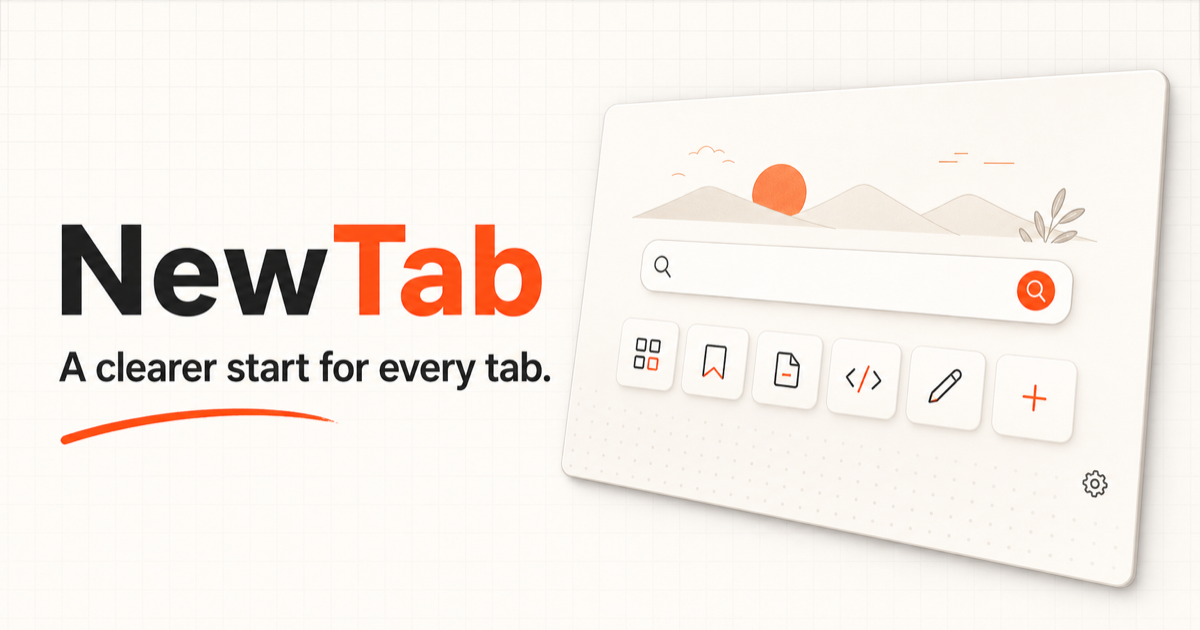
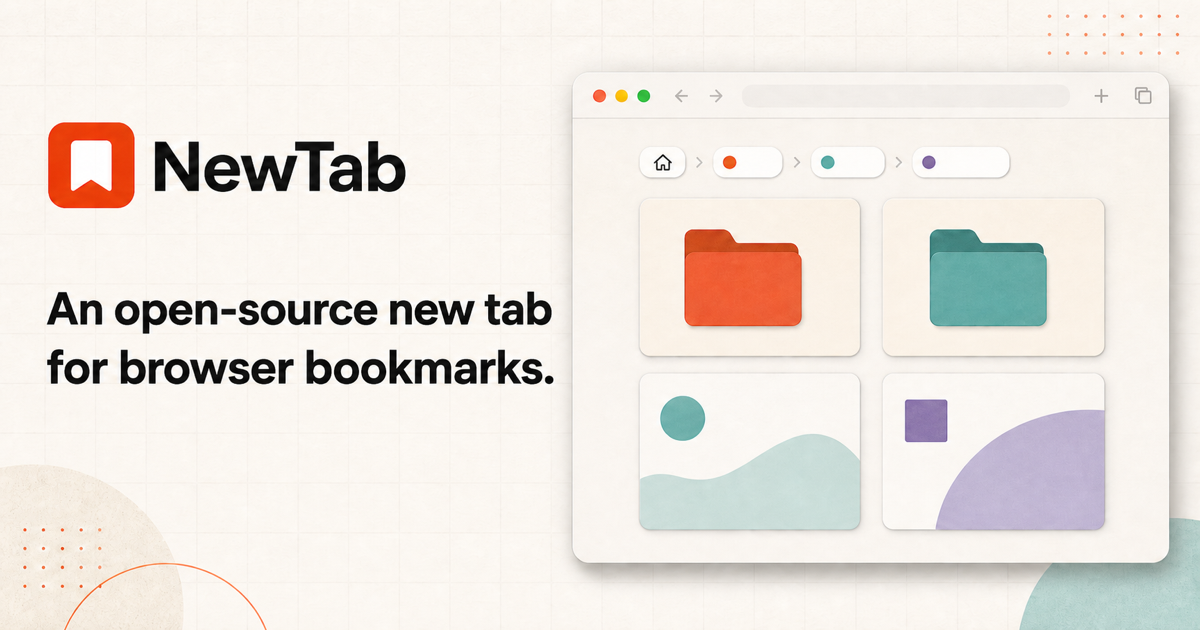
feat(site): update website for browser bookmarks

diff --git a/apps/site/src/i18n/translations.ts b/apps/site/src/i18n/translations.ts
@@ -7,9 +7,9 @@ export type Locale = "en" | "zh";
 export const translations = {
   en: {
     lang: "en",
-    title: `${PRODUCT_NAME} — Customizable New Tab Extension for Chrome`,
-    description: `${PRODUCT_NAME} is a free, ad-free, open-source new tab extension with customizable shortcuts and smarter search. No sign-in—your preferences stay in your browser.`,
-    shareImageAlt: `${PRODUCT_NAME}, a clear and customizable new tab extension`,
+    title: `${PRODUCT_NAME} — An Open-Source New Tab for Browser Bookmarks`,
+    description: `${PRODUCT_NAME} is an open-source browser extension for viewing, searching, and organizing browser bookmarks from the new-tab page.`,
+    shareImageAlt: `${PRODUCT_NAME}, a visual new tab for your browser bookmarks`,
     homeLabel: `${PRODUCT_NAME} home`,
     navLabel: "Main navigation",
     nav: {
@@ -21,47 +21,47 @@ export const translations = {
     },
     hero: {
       badge: "FREE · AD-FREE · OPEN SOURCE",
-      line1: "Open a new tab.",
-      line2: "Start with clarity.",
-      description: `${PRODUCT_NAME} is a simple, customizable new tab extension. Keep favorite sites close, search without detours, and shape the page around the way you work.`,
-      try: "Try the live demo",
+      line1: "Manage browser bookmarks",
+      line2: "from the new-tab page.",
+      description: `${PRODUCT_NAME} reads the browser’s bookmark tree. You can browse folders, search bookmarks, and organize them directly from the new-tab page.`,
+      try: "Open demo",
       browserCta: {
         chrome: "Add to Chrome",
         edge: "Get from Edge Add-ons",
         choose: "Choose your browser",
         pending: "The extension is coming soon. Stay tuned!",
       },
-      benefits: ["No sign-in", "Local-first", "Open source"],
+      benefits: ["Browser bookmarks", "Nested folders", "Drag and drop"],
     },
     demo: {
-      label: "LIVE DEMO",
+      label: "DEMO",
       iframeTitle: `Interactive ${PRODUCT_NAME} product demo`,
       tabTitle: "New Tab",
     },
     features: {
-      label: `WHY ${PRODUCT_NAME.toUpperCase()}`,
-      title1: "Less distraction.",
-      title2: "More direction.",
-      description: `Every new tab is a small chance to begin again. ${PRODUCT_NAME} keeps search, shortcuts, and personal preferences clear and close at hand without getting in your way.`,
+      label: "BOOKMARK MANAGEMENT",
+      title1: "View and edit",
+      title2: "browser bookmarks.",
+      description: `${PRODUCT_NAME} displays the browser bookmark tree as folders and cards. Changes are written directly to the browser’s bookmark store.`,
       link: "Get the extension",
-      spotlight: {
+      search: {
         label: "SMART SEARCH",
         title: "One box. More ways to get there.",
         description:
-          "Start typing to search the web, open a saved shortcut, or switch engines for just this search. Suggestions appear from the first character and stay within keyboard reach.",
+          "Start typing to search the web, open a matching bookmark, or switch engines for just this search. Suggestions appear from the first character and stay within keyboard reach.",
         points: [
-          "Shortcuts and search engines together",
+          "Bookmarks and search engines together",
           "Temporary search-engine switching",
           "Tab and arrow-key navigation",
         ],
         imageAlt:
-          "Search suggestions showing a temporary search engine and saved shortcuts in one list",
+          "Search suggestions showing a temporary search engine and matching bookmarks in one list",
         preview: {
           query: "b",
           engineHost: "bing.com",
           searchAction: "Search with Bing",
-          groupLabel: "Shortcuts",
-          shortcuts: [
+          groupLabel: "Bookmarks",
+          bookmarks: [
             { name: "Bookmarks", host: "bookmarks.local", tone: "orange" },
             { name: "Blog", host: "blog.local", tone: "teal" },
             { name: "Behance", host: "behance.net", tone: "purple" },
@@ -70,41 +70,41 @@ export const translations = {
       },
       items: [
         [
-          "Clear at a glance",
-          "Search and shortcuts that feel instantly familiar, with nothing extra to learn.",
+          "Browser bookmarks",
+          "NewTab reads and edits the bookmark tree provided by the browser.",
         ],
         [
-          "Made for you",
-          "Arrange favorite sites, search engines, and layout preferences around the way you work.",
+          "Folder organization",
+          "Reorder bookmarks, create nested folders, and move items across roots with drag and drop.",
         ],
         [
-          "Naturally lightweight",
-          "No sign-in and no ads. Your shortcuts and preferences stay in your browser.",
+          "Bookmark and web search",
+          "Search bookmarks alongside the web, switch search engines, and use keyboard navigation.",
         ],
       ],
     },
     source: {
       label: "OPEN SOURCE",
-      title1: "Open source.",
-      title2: "Free to adapt.",
-      description: `${PRODUCT_NAME} is completely free and open source. You can inspect the code, suggest improvements, or adapt it to your needs.`,
+      title1: "Source code",
+      title2: "is available on GitHub.",
+      description: `${PRODUCT_NAME} is an open-source project. You can review the code, report issues, suggest changes, or modify it for your own use.`,
       link: "View source code",
     },
     download: {
-      label: "GET THE EXTENSION",
-      title1: "Start your next new tab",
-      title2: `with ${PRODUCT_NAME}.`,
+      label: "INSTALL",
+      title1: `Install ${PRODUCT_NAME}`,
+      title2: "for your browser.",
       description: "Choose your browser and install the extension.",
       storeLabel: "Available for",
     },
-    footerTagline: "Turn every new tab into a better beginning.",
-    footerNote: "Open source with care.",
+    footerTagline: "An open-source new tab for browser bookmarks.",
+    footerNote: "Open-source project.",
   },
   zh: {
     lang: "zh-CN",
-    title: `${PRODUCT_NAME} — 免费开源的自定义新标签页扩展`,
-    description: `${PRODUCT_NAME} 是一款免费、无广告、开源的新标签页扩展，支持自定义快捷方式和更灵活的搜索。无需登录，偏好设置保存在浏览器本地。`,
-    shareImageAlt: `${PRODUCT_NAME}，清晰、可自定义的新标签页扩展`,
+    title: `${PRODUCT_NAME} — 在新标签页管理浏览器书签`,
+    description: `${PRODUCT_NAME} 是一个开源浏览器扩展，用于在新标签页中浏览、搜索和整理浏览器书签。`,
+    shareImageAlt: `${PRODUCT_NAME}，为浏览器书签设计的可视化新标签页`,
     homeLabel: `${PRODUCT_NAME} 主页`,
     navLabel: "主导航",
     nav: {
@@ -116,46 +116,46 @@ export const translations = {
     },
     hero: {
       badge: "免费 · 无广告 · 开源",
-      line1: "打开新标签，",
-      line2: "简单又顺手。",
-      description: `${PRODUCT_NAME} 是一个简单、可自定义的新标签页扩展。常用网站触手可及，搜索一步到位，页面也可以按你的习惯安排。`,
-      try: "先体验一下",
+      line1: "在新标签页中",
+      line2: "管理浏览器书签。",
+      description: `${PRODUCT_NAME} 直接读取浏览器书签树。你可以在新标签页中浏览文件夹、搜索书签并完成整理。`,
+      try: "打开演示",
       browserCta: {
         chrome: "添加到 Chrome",
         edge: "添加到 Edge",
         choose: "选择你的浏览器",
         pending: "插件正在上架中，敬请期待。",
       },
-      benefits: ["无需登录", "数据本地保存", "开放源代码"],
+      benefits: ["浏览器书签", "多层文件夹", "拖拽整理"],
     },
     demo: {
-      label: "在线体验",
+      label: "功能演示",
       iframeTitle: `${PRODUCT_NAME} 可交互产品演示`,
       tabTitle: "新标签页",
     },
     features: {
-      label: `为什么选择 ${PRODUCT_NAME}`,
-      title1: "少一点打扰，",
-      title2: "多一点专注。",
-      description: `每次打开新标签页，都能快速找到需要的内容。${PRODUCT_NAME} 把搜索、快捷入口和个性化设置放在清晰、顺手的位置。`,
+      label: "书签管理",
+      title1: "浏览并编辑",
+      title2: "浏览器书签。",
+      description: `${PRODUCT_NAME} 以文件夹和卡片的形式展示浏览器书签树，修改会直接写入浏览器书签。`,
       link: "获取扩展",
-      spotlight: {
+      search: {
         label: "增强搜索",
         title: "一个搜索框，多种到达方式。",
         description:
-          "从第一个字符开始，搜索框会同时匹配快捷方式和搜索引擎。你可以只为当前搜索临时切换引擎，并用键盘完成选择。",
+          "从第一个字符开始，搜索框会同时匹配浏览器书签和搜索引擎。你可以只为当前搜索临时切换引擎，并用键盘完成选择。",
         points: [
-          "快捷方式与搜索引擎同时匹配",
+          "浏览器书签与搜索引擎同时匹配",
           "仅为当前搜索临时切换引擎",
           "支持 Tab 与上下键导航",
         ],
-        imageAlt: "同一列表中展示临时搜索引擎与快捷方式的搜索建议",
+        imageAlt: "同一列表中展示临时搜索引擎与浏览器书签的搜索建议",
         preview: {
           query: "b",
           engineHost: "bing.com",
           searchAction: "使用 Bing 搜索",
-          groupLabel: "快捷方式",
-          shortcuts: [
+          groupLabel: "浏览器书签",
+          bookmarks: [
             { name: "书签", host: "bookmarks.local", tone: "orange" },
             { name: "博客", host: "blog.local", tone: "teal" },
             { name: "Behance", host: "behance.net", tone: "purple" },
@@ -163,29 +163,29 @@ export const translations = {
         },
       },
       items: [
-        ["一眼就懂", "搜索和快捷入口清晰直观，无需额外学习。"],
-        ["由你定义", "可以按自己的习惯设置常用网站、搜索引擎和页面布局。"],
+        ["浏览器书签", "读取并编辑浏览器提供的书签树。"],
+        ["文件夹整理", "拖拽调整顺序、创建多层文件夹，并跨根目录移动书签。"],
         [
-          "简单直接",
-          "无需登录，没有广告。快捷方式和偏好设置保存在浏览器本地。",
+          "书签与网页搜索",
+          "搜索网页时匹配全部书签，也可以切换搜索引擎并使用键盘操作。",
         ],
       ],
     },
     source: {
       label: "开放源代码",
-      title1: "完全开源，",
-      title2: "可以自由修改。",
-      description: `${PRODUCT_NAME} 完全免费并开放源代码。你可以查看代码、提出建议，也可以按自己的需要修改。`,
+      title1: "项目源代码",
+      title2: "发布在 GitHub。",
+      description: `${PRODUCT_NAME} 是一个开源项目。你可以查看代码、提交问题、提出修改建议，或按自己的需要进行修改。`,
       link: "查看项目源码",
     },
     download: {
-      label: "获取扩展",
-      title1: "下一次打开新标签页，",
-      title2: `从 ${PRODUCT_NAME} 开始。`,
+      label: "安装",
+      title1: `为浏览器安装`,
+      title2: `${PRODUCT_NAME}。`,
       description: "选择你的浏览器并安装扩展。",
       storeLabel: "适用于",
     },
-    footerTagline: "把每一个新标签，变成更好的开始。",
-    footerNote: "免费、无广告、开放源代码。",
+    footerTagline: "一个用于管理浏览器书签的开源新标签页扩展。",
+    footerNote: "开源项目。",
   },
 } as const;
